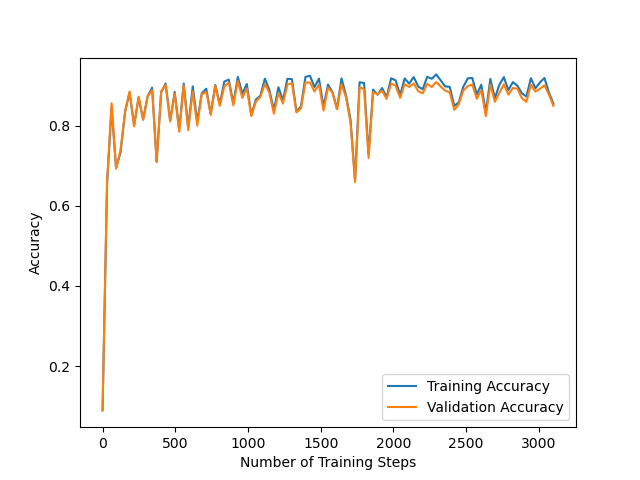
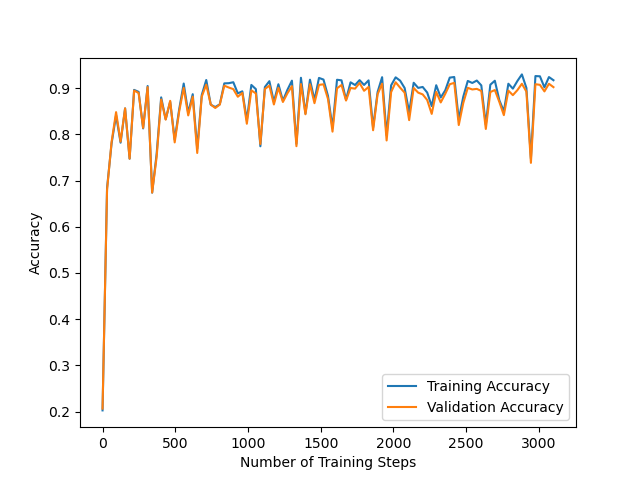
working although tolerance test in 3a indicates an error...?

diff --git a/assignment1/task3a.py b/assignment1/task3a.py
@@ -13,12 +13,12 @@ def cross_entropy_loss(targets: np.ndarray, outputs: np.ndarray):
         Cross entropy error (float)
     """
     # TODO implement this function (Task 3a)
-    N = targets.shape[1]
+    N = targets.shape[0]
     C_sum = 0
     for i in range(targets.shape[0]):
         for y,y_hat in zip(targets[i],outputs[i]):
             C_sum += -(y*np.log(y_hat))
-    C = C_sum
+    C = C_sum/N
     assert targets.shape == outputs.shape,\
         f"Targets shape: {targets.shape}, outputs: {outputs.shape}"
     return C
